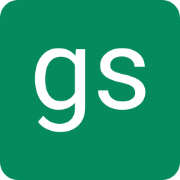
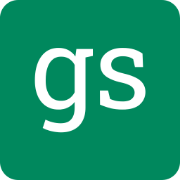
Update colors to match the final shade

diff --git a/static/main.css b/static/main.css
@@ -1,6 +1,6 @@
 :root {
   --color-bg: #FFF;
-  --color-primary: rgb(0% 53.49% 36.28%); /*lch(50% 66 160.835)*/
+  --color-primary: rgb(0% 53.49% 36.28%); /*lch(50% 66 160.835), #00885D*/
   --color-accent: rgb(21.96% 45.77% 90.66%); /*lch(50% 66 280)*/
   --color-error: rgb(82.07% 25.69% 26.33%); /*lch(50% 66 30)*/
   --color-unknown: rgb(75.73% 33.19% 12.24%); /*lch(50% 66 50)*/

diff --git a/gpcsup/__init__.py b/gpcsup/__init__.py
@@ -182,7 +182,7 @@ def construct_app(es_dao, **kwargs):
     # Firefox for Android seems to consider the icon loader a different origin.
     #
     # Favicon stuff generated at:
-    # https://favicon.io/favicon-generator/?t=gs&ff=Roboto Slab&fs=80&fc=%23fff&b=rounded&bc=%23058a5e
+    # https://favicon.io/favicon-generator/?t=gs&ff=Roboto Slab&fs=80&fc=%23fff&b=rounded&bc=%2300885D
     @app.get('/favicon.ico',
              sh_updates={'Cross-Origin-Resource-Policy': 'cross-origin'})
     def icon():
